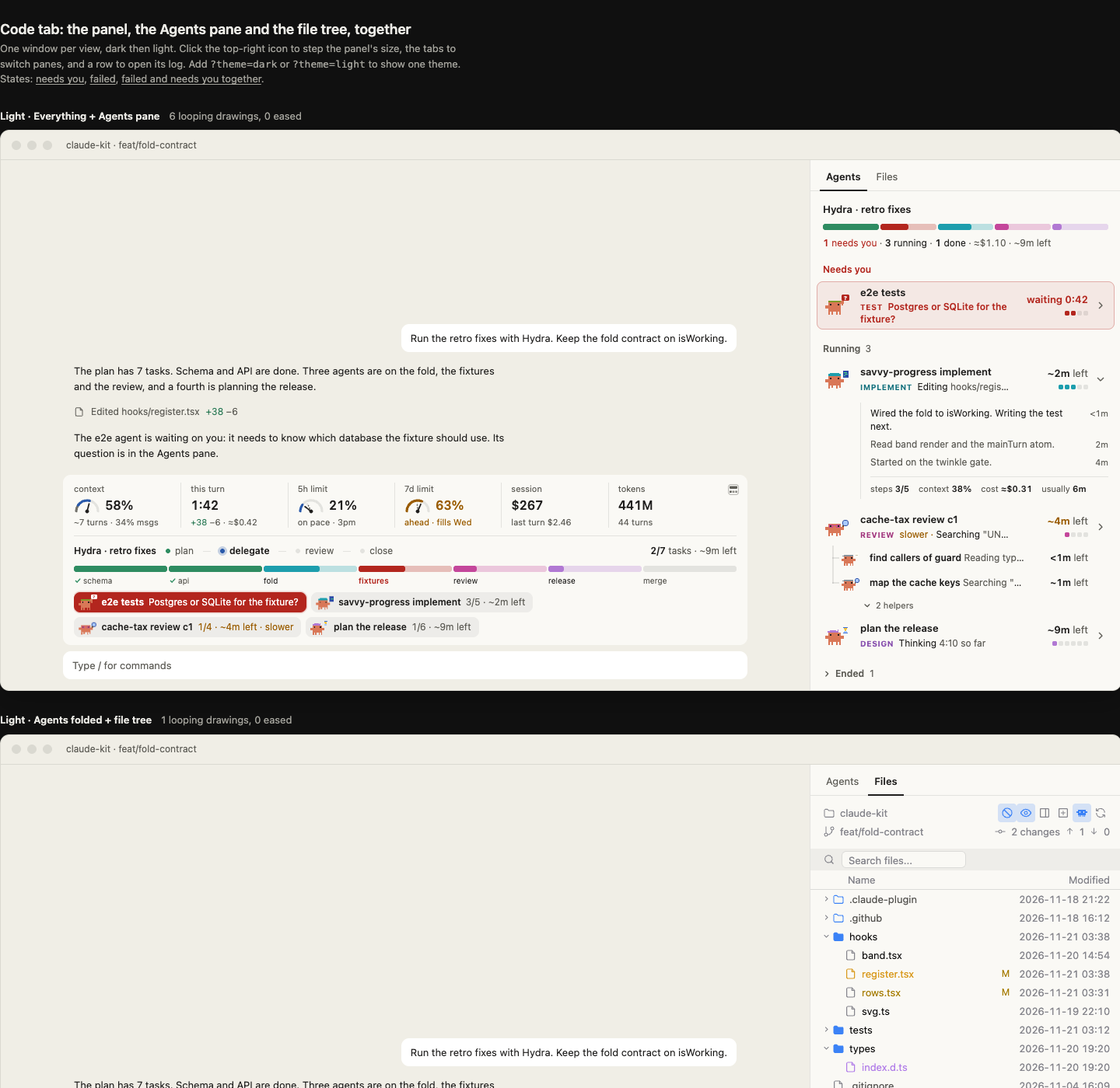
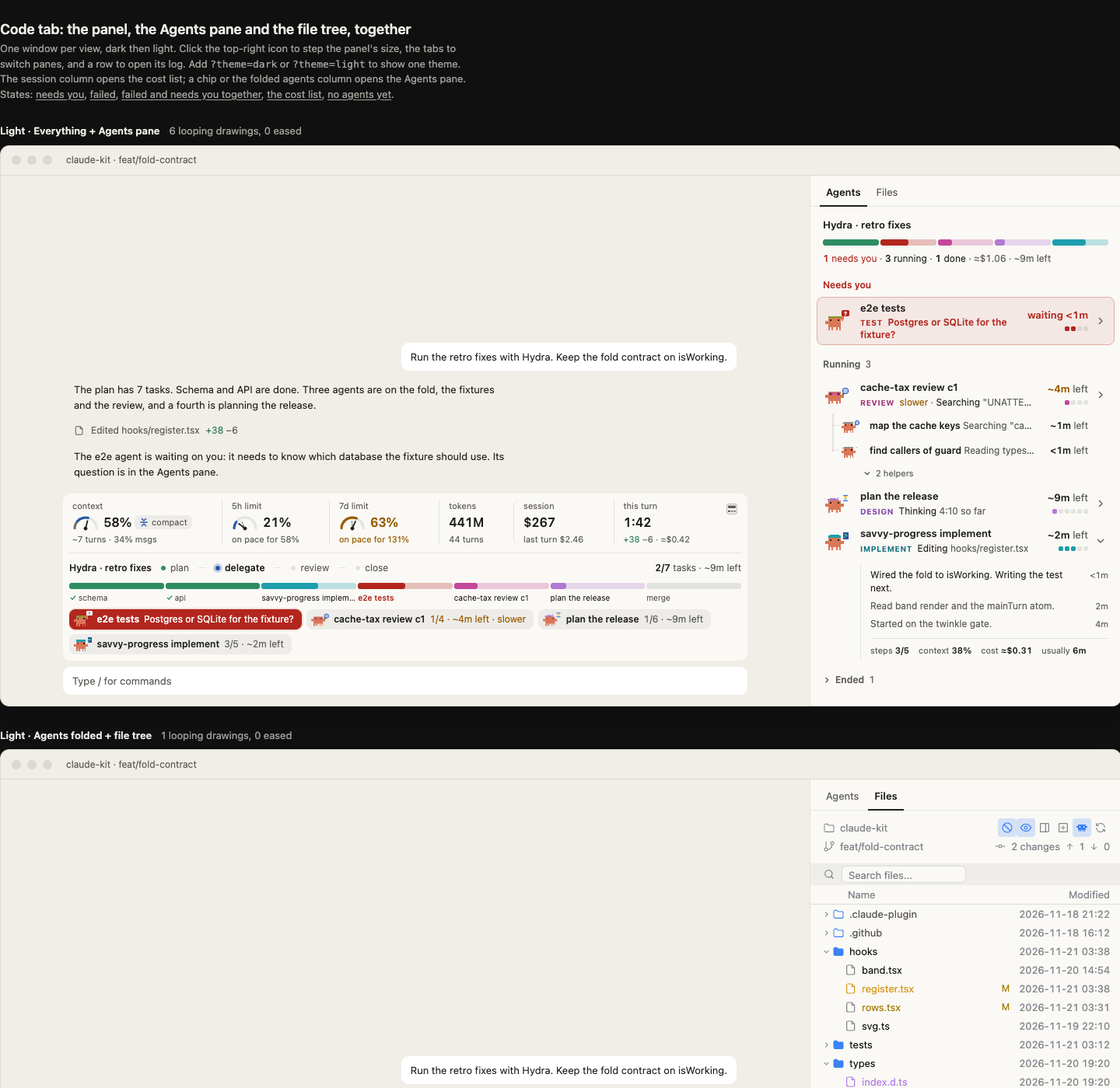
design: bring the mockup and previews in line with the build

diff --git a/design/mockups-all.html b/design/mockups-all.html
@@ -6,7 +6,8 @@
 <title>Code tab composite: panel, Agents pane, file tree</title>
 <style>
 /* Composite of the locked mockups. Drawing code is copied from panel-above-prompt.html and
-   agents-pane-roster.html; every deviation is tagged "ALIGN <id>" and listed in ALIGNMENT.md. */
+   agents-pane-roster.html; every deviation is tagged "ALIGN <id>" and listed in ALIGNMENT.md. A tag "BUILD <name>" brings
+   the drawing in line with the build: <name> is a bullet of LOCKED.md, "Build decisions", and the Playwright baselines show it. */
 :root{--page:#e9e9e8;--ink:#1f1e1d;--dim:#5f5e58;--line:#d3d2cf;color-scheme:light dark}
 @media (prefers-color-scheme:dark){:root{--page:#101010;--ink:#ecebe6;--dim:#a3a29b;--line:#37362f}}
 body{margin:0;background:var(--page);color:var(--ink);font:14px/1.5 -apple-system,BlinkMacSystemFont,system-ui,sans-serif;padding:24px 0 48px}
@@ -44,23 +45,23 @@ body{margin:0;background:var(--page);color:var(--ink);font:14px/1.5 -apple-syste
 .m{color:var(--mu)}.b{font-weight:600}.grow{flex:1}.tn{font-variant-numeric:tabular-nums}.el{white-space:nowrap;overflow:hidden;text-overflow:ellipsis}
 
 /* ---------- panel above the prompt (from panel-above-prompt.html) ---------- */
-.pn{position:relative;background:var(--p);border-radius:10px;padding:10px 14px 10px;font-size:13px;line-height:18px;margin:0 auto;box-sizing:border-box;max-width:100%} /* ALIGN R1: 12 -> 10 (host container radius); bottom pad 11 -> 10 */
+.pn{position:relative;background:var(--p);border-radius:10px;padding:8px;font-size:13px;line-height:18px;margin:0 auto;box-sizing:border-box;max-width:100%} /* ALIGN R1: 12 -> 10 (host container radius). The host's 8px padding (ALIGNMENT, "Not buildable" 1) */
 .prompt{height:36px;border-radius:10px;background:var(--pb);display:flex;align-items:center;padding:0 12px;font-size:13px;color:var(--mu);margin:8px auto 0;box-sizing:border-box;max-width:100%}
 .fold{display:grid;transition:grid-template-rows .3s cubic-bezier(.2,.8,.2,1),opacity .3s cubic-bezier(.2,.8,.2,1)}.fold>div{overflow:hidden;min-height:0} /* ALIGN M3: .36s/.24s ease-out -> .3s shared curve */
 .fold.open{grid-template-rows:1fr;opacity:1}.fold.shut{grid-template-rows:0fr;opacity:0}
 .grid{display:grid;padding-right:28px}
 .cell{padding:0 12px;border-left:1px solid var(--tr);min-width:0}
-.cell:first-child{border-left:0;padding-left:0}
+.cell:first-child{border-left:0;padding-left:4px} /* BUILD First column inset */
 .lab{font-size:11px;line-height:15px;color:var(--mu)}
 .val{display:flex;align-items:center;gap:6px;height:28px} /* ALIGN S1: gap 7 -> 6 */
 .val b{font-size:16px;font-weight:600;font-variant-numeric:tabular-nums} /* ALIGN T1: 650 -> 600 */
 .val small{font-size:12px;color:var(--mu)}
 .so{font-size:11px;line-height:15px;color:var(--mu)}
-.agentcol{cursor:pointer;border-radius:8px;outline:none}
-.agentcol:hover .lab{color:var(--fg)}
+.press{cursor:pointer;border-radius:8px;outline:none} /* a pressable column or line part */
+.press:hover .lab{color:var(--fg)}
 .line{display:flex;align-items:center;gap:12px;height:24px;white-space:nowrap;overflow:hidden;padding-right:28px} /* ALIGN S1: gap 14 -> 12 */
 .g{display:inline-flex;align-items:center;gap:6px}
-.tg{position:absolute;right:6px;top:7px;width:24px;height:24px;border:none;border-radius:6px;background:transparent;color:var(--mu);cursor:pointer;display:grid;place-items:center;padding:0} /* ALIGN F2: 22 -> 24px target */
+.tg{position:absolute;right:8px;top:8px;width:24px;height:24px;border:none;border-radius:6px;background:transparent;color:var(--mu);cursor:pointer;display:grid;place-items:center;padding:0} /* ALIGN F2: 22 -> 24px target */
 .tg:hover{background:var(--wash);color:var(--fg)}
 .tg svg rect,.tg svg circle{transition:all .3s cubic-bezier(.2,.8,.2,1)}
 .hr{height:1px;background:var(--tr);margin:10px 0 8px}
@@ -89,6 +90,11 @@ body{margin:0;background:var(--page);color:var(--ink);font:14px/1.5 -apple-syste
 .chips{display:flex;gap:6px;flex-wrap:wrap}
 .chip{display:inline-flex;align-items:center;gap:6px;height:26px;padding:0 10px 0 4px;border-radius:8px;font-size:12px;white-space:nowrap;background:var(--wash);max-width:100%}
 .chip.alert{background:var(--red);color:#fff}
+.chips .chip{cursor:pointer} /* BUILD Chips open the Agents pane */
+/* BUILD Compact chip: from 50% context, right of the value; the icon takes the dial's tone, in alarm the word is er 600 on needTint */
+.cpt{display:inline-flex;align-items:center;gap:4px;height:18px;padding:0 6px;border-radius:6px;background:var(--wash);color:var(--mu);font-size:11px;line-height:18px;margin-left:-2px;cursor:pointer;flex:none} /* 4px after the value */
+.cpt.al{background:var(--hl);color:var(--er);font-weight:600}
+.cpt svg{display:block}
 /* ALIGN N2: one needs-you beat, 1.2s stepped, for chip, pane row and the folded crab */
 .pulse{animation:pulse 1.2s steps(2) infinite}
 @keyframes pulse{50%{box-shadow:0 0 0 3px color-mix(in srgb,var(--red) 35%,transparent)}}
@@ -111,9 +117,9 @@ body{margin:0;background:var(--page);color:var(--ink);font:14px/1.5 -apple-syste
 .sec{display:flex;align-items:center;gap:6px;font-size:12px;font-weight:600;color:var(--mu);margin:16px 0 6px;user-select:none} /* ALIGN S1: 18 -> 16 */
 .sec.need{color:var(--er)}
 .sec button{all:unset;display:inline-flex;align-items:center;gap:6px;cursor:pointer;border-radius:6px}
-.row{display:grid;grid-template-columns:38px minmax(0,1fr) 88px 16px;align-items:center;column-gap:10px;height:48px;border-radius:8px;padding:0 8px;margin:0 -8px;cursor:pointer;position:relative;transition:background .15s cubic-bezier(.2,.8,.2,1);outline:none} /* ALIGN R1: 10 -> 8, same as chips */
+.row{display:grid;grid-template-columns:38px minmax(0,1fr) var(--rd,88px) 16px;align-items:center;column-gap:10px;height:48px;border-radius:8px;padding:0 8px;margin:0 -8px;cursor:pointer;position:relative;transition:background .15s cubic-bezier(.2,.8,.2,1);outline:none} /* ALIGN R1: 10 -> 8, same as chips. BUILD Narrow pane: --rd is the one reading edge (widest reading + 6, 88 at most) */
 .row:hover{background:var(--wash)}
-.row.need{background:var(--hl);height:62px}
+.row.need{background:var(--hl);height:62px;grid-template-columns:38px minmax(0,1fr) 88px 16px} /* an alert row sizes its own column */
 .role{font-size:10px;font-weight:700;letter-spacing:.06em;margin-right:3px} /* ALIGN T1: 10.5 -> 10 */
 .ask{display:-webkit-box;-webkit-line-clamp:2;-webkit-box-orient:vertical;overflow:hidden;line-height:16px}
 .sub{font-size:12px;margin-top:2px}
@@ -129,9 +135,7 @@ body{margin:0;background:var(--page);color:var(--ink);font:14px/1.5 -apple-syste
 /* ALIGN N2/M1: was an eased 3s ring growing 6px outside the row. Stepped, inset (a Client clips its overflow), same 1.2s beat as the chip. */
 .ring{position:absolute;inset:0 -8px;border-radius:8px;animation:ring 1.2s steps(2) infinite;pointer-events:none}
 @keyframes ring{50%{box-shadow:inset 0 0 0 2px color-mix(in srgb,var(--er) 60%,transparent)}}
-.drawer{display:grid;grid-template-rows:0fr;transition:grid-template-rows .3s cubic-bezier(.2,.8,.2,1)}
-.drawer>div{overflow:hidden}
-.drawer.on{grid-template-rows:1fr}
+.drawer{display:none}.drawer.on{display:block} /* BUILD Log drawer: it opens still */
 .log{margin:6px 0 12px 48px;padding:2px 0 2px 12px;border-left:1.5px solid var(--tr)}
 .li{display:grid;grid-template-columns:minmax(0,1fr) 38px;column-gap:10px;font-size:12px;line-height:17px;padding:3px 0}
 .li .ago{text-align:right;font-size:11px;color:var(--mu);font-variant-numeric:tabular-nums}
@@ -146,9 +150,11 @@ body{margin:0;background:var(--page);color:var(--ink);font:14px/1.5 -apple-syste
 .kids>div{overflow:hidden}
 .tree{position:relative;padding-left:22px}
 .tree:before{content:"";position:absolute;left:12px;top:-4px;bottom:15px;width:1.5px;background:var(--tr)}
-.kid{grid-template-columns:28px minmax(0,1fr) 72px 16px;height:32px;cursor:default}
+.kid{grid-template-columns:28px minmax(0,1fr) var(--rd,88px) 16px;height:32px;cursor:default} /* BUILD Narrow pane: helpers share the rows' reading edge */
 .kid:before{content:"";position:absolute;left:-2px;top:15.25px;width:9px;height:1.5px;background:var(--tr)}
 .kid .ttl{font-size:12px}
+.kid .ttl.two{display:flex;flex-wrap:wrap;column-gap:4px;line-height:14px} /* BUILD Cuts keep meaning: a failed helper's reason that will not fit goes to line 2 */
+.kid .ttl.two>*{white-space:nowrap;overflow:hidden;text-overflow:ellipsis;max-width:100%}
 .kidtog{all:unset;display:inline-flex;align-items:center;gap:6px;font-size:11px;color:var(--mu);margin:2px 0 4px 48px;cursor:pointer;border-radius:6px;padding:2px 4px}
 .kidtog:hover{color:var(--fg)}
 .kidtog svg{transition:transform .3s cubic-bezier(.2,.8,.2,1)}
@@ -168,6 +174,17 @@ body{margin:0;background:var(--page);color:var(--ink);font:14px/1.5 -apple-syste
 .li.bad>span:first-child{color:var(--er);font-weight:600}
 .errl{display:block;margin:4px 0 2px;padding:4px 8px;border-radius:6px;background:var(--wash);color:var(--fg);font:400 11px/15px ui-monospace,SFMono-Regular,Menlo,monospace;overflow-wrap:anywhere}
 .end .no{color:var(--er);display:inline-flex;align-items:center;gap:4px}
+/* BUILD Session cost board / Cost list: a back row, the total, then 'Last N turns', amounts right-aligned at the reading edge */
+.back{all:unset;display:flex;align-items:center;gap:6px;height:28px;font-size:12px;color:var(--mu);cursor:pointer;border-radius:6px}
+.back svg{transform:rotate(180deg)}
+.costs .t{font-size:13px;font-weight:600;margin-top:4px}
+.costs .tot{font-size:12px;margin:2px 0 0}
+.costs .sec{margin:14px 0 4px}
+.cl{display:grid;grid-template-columns:minmax(0,1fr) auto;padding-right:34px;font-size:12px;line-height:20px}
+.cl span:nth-child(odd){color:var(--mu)}
+/* BUILD Empty pane: the title in fg, the hint muted */
+.empty{display:flex;flex-direction:column;align-items:center;padding:24px 0;font-size:13px}
+.empty .m{font-size:12px}
 /* ALIGN F12: specimen sheet for the failed chip's timer and the A/B row. A legend, not a surface of the app. */
 .spec{width:1440px;margin:0 auto;box-sizing:border-box;border-radius:12px;border:1px solid var(--tr);background:var(--g);color:var(--fg);padding:12px;display:grid;grid-template-columns:repeat(2,minmax(0,1fr));gap:12px;font:13px/18px -apple-system,BlinkMacSystemFont,system-ui,sans-serif}
 .spec ::selection{background:color-mix(in srgb,var(--ac) 35%,transparent)}
@@ -203,7 +220,7 @@ body{margin:0;background:var(--page);color:var(--ink);font:14px/1.5 -apple-syste
 <body>
 <div class="doc">
 <h1>Code tab: the panel, the Agents pane and the file tree, together</h1>
-<p>One window per view, dark then light. Click the top-right icon to step the panel's size, the tabs to switch panes, and a row to open its log. Add <code>?theme=dark</code> or <code>?theme=light</code> to show one theme. States: <a href="?">needs you</a>, <a href="?state=failed">failed</a>, <a href="?state=both">failed and needs you together</a>.</p>
+<p>One window per view, dark then light. Click the top-right icon to step the panel's size, the tabs to switch panes, and a row to open its log. Add <code>?theme=dark</code> or <code>?theme=light</code> to show one theme. The session column opens the cost list; a chip or the folded agents column opens the Agents pane. States: <a href="?">needs you</a>, <a href="?state=failed">failed</a>, <a href="?state=both">failed and needs you together</a>, <a href="?state=costs">the cost list</a>, <a href="?state=empty">no agents yet</a>.</p>
 </div>
 <div id="root"></div>
 <script>
@@ -222,7 +239,7 @@ const TH={
 const CL='#D97757',INK='#1F1E1D';
 /* ALIGN I1: one icon set, 12-unit grid, 1.6 stroke, drawn at 12px or 10px (was 1.6 / 1.7 / 2.0 at 12 / 11 / 10 / 8px) */
 const ic=(d,s,cls)=>`<svg ${cls?`class="${cls}"`:`width="${s}" height="${s}"`} viewBox="0 0 12 12" aria-hidden="true"><path d="${d}" fill="none" stroke="currentColor" stroke-width="1.6" stroke-linecap="round" stroke-linejoin="round"/></svg>`;
-const ICON={chev:ic('M4.5 2.5 8 6l-3.5 3.5',12,'chev'),small:ic('M4.5 2.5 8 6l-3.5 3.5',10),check:ic('M2.5 6.3 5 8.8l4.5-5.3',10),cross:ic('M3 3l6 6M9 3 3 9',10)}; /* ALIGN F3: cross, same grid and stroke as the check */
+const ICON={chev:ic('M4.5 2.5 8 6l-3.5 3.5',12,'chev'),small:ic('M4.5 2.5 8 6l-3.5 3.5',10),check:ic('M2.5 6.3 5 8.8l4.5-5.3',10),cross:ic('M3 3l6 6M9 3 3 9',10),squeeze:ic('M3.5 1.5 6 4l2.5-2.5M3.5 10.5 6 8l2.5 2.5M2 6h8',12)}; /* ALIGN F3: cross, same grid and stroke as the check. BUILD Compact chip: squeeze */
 
 /* ALIGN C2: ONE crab for chips, pane rows and the folded column. The pane's drawing (full props, done flag)
    plus the panel's failed eyes. Sizes are S .75 / M 1 / L 1.5 only (were .7 .75 .8 .9 1.1 1.6). */
@@ -245,34 +262,41 @@ function icon(mode,dot,c){const line=mode==='line',full=mode==='full';
  return `<svg width="14" height="14" viewBox="0 0 14 14" aria-hidden="true"><rect x=".6" y=".6" width="12.8" height="12.8" rx="3" fill="none" stroke="currentColor" stroke-opacity=".45"/>${top}${row}${dot?`<circle cx="11.8" cy="2.2" r="2" fill="${c.er}"/>`:''}</svg>`} /* ALIGN K1: dot was a hard-coded #ff6a52 */
 
 /* ---------- ALIGN D1: ONE dataset feeds the panel and the pane (the two mockups disagreed on agents, names, counts and time left) ---------- */
+/* BUILD: agents in the build's order: running newest first (rev, e2e, pln, imp; helpers k2, k1), as in plugin/tests/fixtures/states.ts */
 const seed=()=>[
- {id:'e2e',t:'e2e tests',role:'test',m:'Haiku 5.5',prop:'wait',q:'Postgres or SQLite for the fixture?',wait:'0:42',n:2,N:4,ctx:62,cost:'0.07',us:'4m',task:4,log:[['Asked: Postgres or SQLite for the fixture?','<1m'],['Seeded the fixture data.','2m'],['Wrote the login flow test.','3m']]},
- {id:'imp',t:'savvy-progress implement',role:'implement',m:'Sonnet 5.5',prop:'write',act:'Editing',tgt:'hooks/register.tsx',eta:2,n:3,N:5,ctx:38,cost:'0.31',us:'6m',walk:1,task:3,log:[['Wired the fold to isWorking. Writing the test next.','<1m'],['Read band render and the mainTurn atom.','2m'],['Started on the twinkle gate.','4m']]},
- {id:'rev',t:'cache-tax review c1',role:'review',m:'Opus 5.5',prop:'search',act:'Searching',tgt:'"UNATTENDED" in hooks/',eta:4,slow:1,n:1,N:4,ctx:21,cost:'0.18',us:'7m',walk:1,task:5,log:[['Searching for UNATTENDED across hooks/.','1m'],['Opened the cache-tax diff.','3m']],kids:[
-  {id:'k1',t:'find callers of guard',role:'explore',prop:'read',act:'Reading',tgt:'types/index.d.ts',eta:0,n:2,N:3,walk:1},
-  {id:'k2',t:'map the cache keys',role:'explore',prop:'search',act:'Searching',tgt:'"cacheKey" in src/',eta:1,n:1,N:3}]},
- {id:'pln',t:'plan the release',role:'design',m:'Fable 5.2',prop:'think',act:'Thinking',tgt:'4:10 so far',eta:9,n:1,N:6,ctx:30,cost:'0.44',us:'12m',task:6,log:[['Drafting the release order.','30s']]}]; /* ALIGN W2: "4m 10s so far" -> "4:10 so far" (a running clock is m:ss) */
-const A=seed(),ENDED=[{t:'docs pass',role:'explore',took:'1:05'}];
+ {id:'rev',t:'cache-tax review c1',role:'review',m:'Opus 5.5',prop:'search',act:'Searching',tgt:'"UNATTENDED" in hooks/',eta:4,slow:1,n:1,N:4,ctx:21,cost:'0.18',us:'7m',task:5,log:[['Searching for UNATTENDED across hooks/.','1m'],['Opened the cache-tax diff.','3m']],kids:[
+  {id:'k2',t:'map the cache keys',role:'explore',prop:'search',act:'Searching',tgt:'"cacheKey" in src/',eta:1,n:1,N:3,cost:'0.01'},
+  {id:'k1',t:'find callers of guard',role:'explore',prop:'read',act:'Reading',tgt:'types/index.d.ts',eta:0,n:2,N:3,cost:'0.02'}]},
+ {id:'e2e',t:'e2e tests',role:'test',m:'Haiku 5.5',prop:'wait',q:'Postgres or SQLite for the fixture?',wait:'<1m',n:2,N:4,ctx:62,cost:'0.07',us:'4m',task:4,log:[['Asked: Postgres or SQLite for the fixture?','<1m'],['Seeded the fixture data.','2m'],['Wrote the login flow test.','3m']]}, /* BUILD Ages, everywhere: whole minutes */
+ {id:'pln',t:'plan the release',role:'design',m:'Fable 5.2',prop:'think',act:'Thinking',tgt:'4:10 so far',eta:9,n:1,N:6,ctx:30,cost:'0.44',us:'12m',task:6,log:[['Drafting the release order.','<1m']]}, /* ALIGN W2: "4m 10s so far" -> "4:10 so far" (a running clock is m:ss) */
+ {id:'imp',t:'savvy-progress implement',role:'implement',m:'Sonnet 5.5',prop:'write',act:'Editing',tgt:'hooks/register.tsx',eta:2,n:3,N:5,ctx:38,cost:'0.31',us:'6m',task:3,log:[['Wired the fold to isWorking. Writing the test next.','<1m'],['Read band render and the mainTurn atom.','2m'],['Started on the twinkle gate.','4m']]}];
+const A=seed(),ENDED=[{t:'docs pass',role:'explore',took:'1:05',cost:'0.03'}],AG=id=>A.find(a=>a.id===id);
 /* ALIGN F7: the failed scenario (?state=failed, or ?state=both to keep a needs-you beside it). Two kinds, as in AgentRun:
    ended failed = status 'failed' (prop 'fail', held until the next prompt); struggling = still running with failedAttempts >= 3 (tries). */
 const STATE=new URLSearchParams(location.search).get('state')||'',FAILED=STATE==='failed'||STATE==='both';
 if(FAILED){
- Object.assign(A[0],{prop:'fail',q:'',took:'2:10',tries:3,why:'Could not reach Postgres on :5432',err:'connect ECONNREFUSED 127.0.0.1:5432',log:[['Failed at step 3 of 4: run the login flow test','<1m'],['Try 3 failed: still refused.','<1m'],['Try 2 failed: restarted the container.','1m'],['Try 1 failed: connection refused.','1m'],['Seeded the fixture data.','2m']]});
- Object.assign(A[2],{tries:3,slow:0,act:'Retrying',tgt:'the diff against main',log:[['Try 3 failed: 2 hunks still rejected.','20s'],['Helper "map the cache keys" failed after 0:48: no "cacheKey" in src/.','50s'],['Try 2 failed: rebased, same hunks.','1m'],['Try 1 failed: the diff does not apply.','2m'],['Opened the cache-tax diff.','3m']]});
- Object.assign(A[2].kids[1],{prop:'fail',walk:0,why:'no "cacheKey" in src/'});
- if(STATE==='both')Object.assign(A[3],{prop:'wait',q:'Ship the release notes in this PR, or after it?',wait:'0:18'})}
+ Object.assign(AG('e2e'),{prop:'fail',q:'',took:'2:10',tries:3,why:'Could not reach Postgres on :5432',err:'connect ECONNREFUSED 127.0.0.1:5432',log:[['Failed at step 3 of 4: run the login flow test','<1m'],['Try 3 failed: still refused.','<1m'],['Try 2 failed: restarted the container.','1m'],['Try 1 failed: connection refused.','1m'],['Seeded the fixture data.','2m']]});
+ Object.assign(AG('rev'),{tries:3,act:'Retrying',tgt:'the diff against main',log:[['Try 3 failed: 2 hunks still rejected.','<1m'],['Helper "map the cache keys" failed after 0:48: no "cacheKey" in src/','<1m'],['Try 2 failed: rebased, same hunks.','1m'],['Try 1 failed: the diff does not apply.','2m'],['Opened the cache-tax diff.','3m']]});
+ Object.assign(AG('rev').kids[0],{prop:'fail',why:'no "cacheKey" in src/'});
+ if(STATE==='both')Object.assign(AG('pln'),{prop:'wait',q:'Ship the release notes in this PR, or after it?',wait:'<1m'})}
+/* BUILD Empty pane (?state=empty): no agents and no plan */
+const EMPTY=STATE==='empty';if(EMPTY){A.length=0;ENDED.length=0}
 const hard=a=>a.tries>=3&&a.prop!=='fail'; /* struggling: live, may recover */
 /* ALIGN M2: walkers are capped window-wide and are the same agents in chips and rows:
-   2 while someone needs you (the needs-you beat takes the third slot), else 3. Helpers walk only if a slot is left. */
-{let cap=A.some(a=>a.prop==='wait'||a.prop==='fail')?2:3; /* ALIGN F8: the armed failed pulse takes the same one slot as the needs-you beat (they share it when both are up) */[...A,...A.flatMap(a=>a.kids||[])].forEach(a=>{a.walk=a.walk&&cap-->0?1:0})}
-const TASKS=['schema','api','fold','fixtures','review','release','merge'],PH=['plan','delegate','review','close'],DONE=2;
-const ST={busy:1,hydra:1,ctx:58,h5:21,d7:63,ahead7:1,turns:44,tests:1}; /* the panel's "Hydra, needs you" state */
+   2 while someone needs you (the needs-you beat takes the third slot), else 3. Helpers walk only if a slot is left.
+   BUILD: the newest running agents walk, then their helpers (loops.ts, pickLoops). */
+{let cap=A.some(a=>a.prop==='wait'||a.prop==='fail')?2:3; /* ALIGN F8: the armed failed pulse takes the same one slot as the needs-you beat (they share it when both are up) */const live=a=>a.prop!=='wait'&&a.prop!=='fail';[...A,...A.flatMap(a=>a.kids||[])].forEach(a=>{a.walk=live(a)&&cap-->0?1:0})}
+/* BUILD: the plan's task titles are the run descriptions they match, as savvy-progress's contract asks. DONE: BUILD Plan count, the session's accepted count */
+const TASKS=['schema','api','savvy-progress implement','e2e tests','cache-tax review c1','plan the release','merge'],PH=['plan','delegate','review','close'],DONE=2;
+const ST={busy:1,hydra:!EMPTY,ctx:58,msgs:34,h5:21,p5:36,d7:63,p7:48,turns:44,tests:1}; /* the panel's "Hydra, needs you" state; p5/p7: the on-pace points */
+/* BUILD Session cost board: the last 20 of 44 turns, newest last (the costs fixture) */
+const TURNS=[...Array.from({length:17},(_,i)=>+(0.2+i*0.03).toFixed(2)),0.85,1.1,2.46];
 const NEXT={full:'gauges',gauges:'line',line:'full'},LBL={full:'Panel: everything. Fold the agents',gauges:'Panel: agents folded. Show one line',line:'Panel: one line. Show everything'};
 const tier=(c,p)=>p>=90?c.er:p>=70?c.wa:c.ac;
 const alertOf=a=>a.prop==='wait'||a.prop==='fail';
 /* ALIGN W1: one wording for time left: "~Nm left", "<1m left". Never a bare "~Nm". */
 const etaTxt=a=>a.eta===0?'<1m':`~${a.eta}m`;
-const LEFT=`~${Math.max(1,...A.filter(a=>!alertOf(a)).map(a=>a.eta||1))}m left`; /* one number, used by the plan line, the plan column and the pane summary */
+const LEFT=`~${Math.max(1,...A.filter(a=>!alertOf(a)).map(a=>a.eta||1))}m left`,COST=[...A,...A.flatMap(a=>a.kids||[]),...ENDED].reduce((s,a)=>s+ +a.cost,0); /* one number, used by the plan line, the plan column and the pane summary */
 /* ALIGN K1: the deep red (#b3261e) is a FILL under white text only. A bare needs-you mark uses er (2.4:1 -> 6.1:1 on the dark panel). */
 /* ALIGN K3: green as TEXT uses okt (light #2e8c61 was 3.96:1; #237550 is 5.4:1). Fills keep ok. */
 const stateCol=(a,c)=>alertOf(a)?c.er:c.R[a.role];
@@ -281,35 +305,44 @@ function taskState(i,L){if(i<DONE)return{k:'d'};const a=L.find(x=>x.task===i+1);
 const seg=(t,c)=>t.k==='d'?'<span class="d"></span>':t.a&&t.a.prop==='fail'?'<span class="x"></span>':t.a?`<span class="r" style="--c:${stateCol(t.a,c)};--f:${Math.max(8,Math.round(t.a.n/t.a.N*100))}%"><i></i></span>`:'<span></span>';
 const mini=(c,L,wd)=>`<span class="mb" style="width:${wd}px" role="img" aria-label="plan, ${DONE} of ${TASKS.length} tasks done">${TASKS.map((_,i)=>{const t=taskState(i,L);return `<span style="${t.k==='d'?`background:${c.ok}`:t.a?`background:${stateCol(t.a,c)}`:''}"></span>`}).join('')}</span>`;
 /* ALIGN F4: one drawing of the agents crab for the folded column, the one-line size and the specimen. armed = the failed pulse timer is live. */
-const mascot=(F,c,s,n,armed,mr)=>`<span style="position:relative;display:inline-block${mr?';margin-right:6px':''}" class="${F.a.prop==='wait'?'hop':F.a.prop==='fail'&&armed?'sway':''}">${crab(F.a.role,F.a.prop,!F.alert,c,s)}<span class="badge" style="background:${F.alert?c.red:c.fg};color:${F.alert?'#fff':c.p}">${n}</span></span>`;
+const mascot=(F,c,s,n,armed,mr)=>`<span style="position:relative;display:inline-block${mr?';margin-right:6px':''}" class="${F.a.prop==='wait'?'hop':F.a.prop==='fail'&&armed?'sway':''}">${crab(F.a.role,F.a.prop,!F.alert,c,s)}${n>1?`<span class="badge" style="background:${F.alert?c.red:c.fg};color:${F.alert?'#fff':c.p}">${n}</span>`:''}</span>`; /* BUILD Count badge: only for 2 or more agents */
 const faceStyle=(F,c)=>F.alert?`color:${c.er};font-weight:600`:F.warn?`color:${c.wa}`:'';
 /* ALIGN F10: the failed chip says "failed" and the same reason sentence as the pane row; it pulses only while armed
    (turn running, or idle under 10 min). The struggling chip stays a normal chip with amber words. */
-const chip=(a,c,armed)=>{const al=alertOf(a),fail=a.prop==='fail',amber=hard(a)||a.slow;return `<span class="chip${al?' alert':''}${a.prop==='wait'||(fail&&armed)?' pulse':''}">${crab(a.role,a.prop,a.walk&&!al,c,S,al)}<b class="el" style="max-width:180px">${a.t}</b>${fail?`<span class="el" style="max-width:300px">failed · ${a.why}</span>`:al?`<span class="el">${a.q}</span>`:`<span class="tn" style="color:${amber?c.wa:c.mu}">${a.n}/${a.N} · ${etaTxt(a)} left${hard(a)?` · ${a.tries} failed tries`:a.slow?' · slower':''}</span>`}</span>`};
+const chip=(a,c,armed)=>{const al=alertOf(a),fail=a.prop==='fail',amber=hard(a)||a.slow;return `<span class="chip${al?' alert':''}${a.prop==='wait'||(fail&&armed)?' pulse':''}" role="button" tabindex="0" aria-label="${a.t}: open its row" data-act="open" data-id="${a.id}">${crab(a.role,a.prop,a.walk&&!al,c,S,al)}<b class="el" style="max-width:180px">${a.t}</b>${fail?`<span class="el" style="max-width:300px">failed · ${a.why}</span>`:al?`<span class="el">${a.q}</span>`:`<span class="tn" style="color:${amber?c.wa:c.mu}">${a.n}/${a.N} · ${etaTxt(a)} left${hard(a)?` · ${a.tries} failed tries`:a.slow?' · slower':''}</span>`}</span>`};
 const rank=a=>a.prop==='wait'?0:a.prop==='fail'?1:2;
-function columns(c,s,L,mode){const C=[],alarm=s.ctx>=90;
- C.push({k:'context',pr:100,lab:'context',d:dial(c,s.ctx,tier(c,s.ctx),{base:18,label:'context'}),val:`<b style="${alarm?`color:${c.er}`:''}">${s.ctx}%</b>`,so:alarm?`<span style="color:${c.er}">auto-compacts at 97%</span>`:s.turns<3?'learning your pace':`~${s.ctx>50?7:11} turns · 34% msgs`});
- if(s.busy)C.push({k:'turn',pr:95,lab:'this turn',val:'<b>1:42</b>',so:`<span style="color:${c.okt}">+38</span> −6 · ≈$0.42`});
- const h5hot=s.h5>=50||s.ahead5,d7hot=s.d7>=50||s.ahead7,h5c=s.h5>=80||s.ahead5?c.wa:c.ac,d7c=s.ahead7?c.wa:c.ac;
- C.push({k:'5h',hot:h5hot,pr:h5hot?96:40,lab:'5h limit',d:dial(c,s.h5,h5c,{ghost:Math.min(s.h5+15,62),label:'5 hour limit'}),val:`<b style="${h5c===c.wa?`color:${c.wa}`:''}">${s.h5}%</b>`,so:s.ahead5?`<span style="color:${c.wa}">full in ~1h 35m</span>`:'on pace · 3pm',pct:s.h5,col:h5c,gh:Math.min(s.h5+15,62)});
- C.push({k:'7d',hot:d7hot,pr:d7hot?90:35,lab:'7d limit',d:dial(c,s.d7,d7c,{ghost:48,label:'7 day limit'}),val:`<b style="${s.ahead7?`color:${c.wa}`:''}">${s.d7}%</b>`,so:s.ahead7?`<span style="color:${c.wa}">ahead · fills Wed</span>`:'on pace · Fri',pct:s.d7,col:d7c,gh:48});
- C.push({k:'session',pr:80,lab:'session',val:'<b>$267</b>',so:s.turns?'last turn $2.46':'no turns yet'});
- if(s.turns>=3){C.push({k:'tokens',pr:30,lab:'tokens',val:'<b>441M</b>',so:`${s.turns} turns`});C.push({k:'agent',pr:28,lab:'agent time',val:'<b>10h 50m</b>',so:'avg 14m per turn'})} /* ALIGN I2: the "⌀" glyph -> the word */
- if(s.tests)C.push({k:'tests',pr:s.busy?20:45,lab:'tests',val:`<b style="color:${c.okt}">179</b><small>passed</small>`,so:'3m ago'});
- if(mode!=='full'&&s.hydra)C.push({k:'plan',pr:97,lab:`plan · ${PH[1]}`,d:mini(c,L,58),val:`<b>${DONE}/${TASKS.length}</b>`,so:`retro fixes · ${LEFT}`});
- /* ALIGN W3: "N running" counted the waiting agent as running; the pane does not. The folded column now reads "N agents". Crab .9 -> M. */
- if(mode!=='full'&&L.length){const F=face(L);C.push({k:'agents',pr:99,click:1,lab:'agents',d:mascot(F,c,M,L.length,1,1),val:`<b>${L.length}</b><small>agents</small>`,so:`<span style="${faceStyle(F,c)}">${F.txt}</span>`})}
+/* BUILD Stable column order, the build's priorities (panel/columns.ts): the core five rank by position, so a narrow row drops
+   them from the right; the folded agents and plan rank just under context; the extras fill what is left. */
+const pace=(p,g)=>{const x=Math.round(p/g*100);return `on pace for ${x>200?'200%+':`${x}%`}`}; /* BUILD: the build's pace words */
+function columns(c,s,L,mode){const C=[],alarm=s.ctx>=90,ctc=tier(c,s.ctx);
+ const cpt=s.ctx>=50?`<span class="cpt${alarm?' al':''}" role="button" tabindex="0" aria-label="${alarm?'Compact context now':'Compact context: runs /compact'}" data-act="compact"><span style="color:${ctc};display:inline-flex">${ICON.squeeze}</span>compact</span>`:''; /* BUILD Compact chip */
+ C.push({k:'context',pr:100,lab:'context',d:dial(c,s.ctx,ctc,{base:s.ctx-s.msgs,label:'context'}),val:`<b style="${alarm?`color:${c.er}`:''}">${s.ctx}%</b>${cpt}`,so:alarm?`<span style="color:${c.er}">auto-compacts at 97%</span>`:s.turns<3?'learning your pace':`~${s.ctx>50?7:11} turns · ${s.msgs}% msgs`});
+ if(s.busy)C.push({k:'turn',pr:50,lab:'this turn',val:'<b>1:42</b>',so:`<span style="color:${c.okt}">+38</span> −6 · ≈$0.42`});
+ const h5a=s.h5>s.p5,d7a=s.d7>s.p7,h5hot=s.h5>=50||h5a,d7hot=s.d7>=50||d7a,h5c=s.h5>=80||h5a?c.wa:c.ac,d7c=s.d7>=80||d7a?c.wa:c.ac;
+ C.push({k:'5h',hot:h5hot,pr:96,lab:'5h limit',d:dial(c,s.h5,h5c,{ghost:s.p5,label:'5 hour limit'}),val:`<b style="${h5c===c.wa?`color:${c.wa}`:''}">${s.h5}%</b>`,so:`<span style="${h5a?`color:${c.wa}`:''}">${pace(s.h5,s.p5)}</span>`,pct:s.h5,col:h5c,gh:s.p5});
+ C.push({k:'7d',hot:d7hot,pr:95,lab:'7d limit',d:dial(c,s.d7,d7c,{ghost:s.p7,label:'7 day limit'}),val:`<b style="${d7c===c.wa?`color:${c.wa}`:''}">${s.d7}%</b>`,so:`<span style="${d7a?`color:${c.wa}`:''}">${pace(s.d7,s.p7)}</span>`,pct:s.d7,col:d7c,gh:s.p7});
+ /* BUILD Session column opens the cost list */
+ C.push({k:'session',pr:93,act:'costs',aria:'Session cost: open the cost list',lab:'session',val:'<b>$267</b>',so:s.turns?'last turn $2.46':'no turns yet'});
+ if(s.turns>=3){C.push({k:'tokens',pr:94,lab:'tokens',val:'<b>441M</b>',so:`${s.turns} turns`});C.push({k:'agent',pr:40,lab:'agent time',val:'<b>10h 50m</b>',so:'avg 14m per turn'})} /* ALIGN I2: the "⌀" glyph -> the word */
+ if(s.tests)C.push({k:'tests',pr:45,lab:'tests',val:`<b style="color:${c.okt}">179</b><small>passed</small>`,so:'3m ago'});
+ if(mode!=='full'&&s.hydra)C.push({k:'plan',pr:97,lab:`plan · ${PH[1]}`,d:mini(c,L,58),val:`<b>${DONE}/${TASKS.length}</b>`,so:`Hydra · retro fixes · ${LEFT}`});
+ /* ALIGN W3: "N running" counted the waiting agent as running; the pane does not. The folded column now reads "N agents". Crab .9 -> M.
+    BUILD One folded agent: its name in the value slot and only its state under it. BUILD Alert line keeps its words: the name is cut, never " needs you". */
+ if(mode!=='full'&&L.length){const F=face(L),one=L.length===1&&F.a===L[0],st=F.alert?(F.a.prop==='wait'?'needs you':'failed'):F.warn?`${F.a.tries} failed tries`:`${etaTxt(F.a)} left`;
+  const say=F.alert&&!one?`<span class="el" style="min-width:0">${F.a.t}</span><span style="flex:none;white-space:pre">${F.txt.slice(F.a.t.length)}</span>`:one?st:F.txt;
+  C.push({k:'agents',pr:99,act:'open',aria:'Agents: show them all',lab:'agents',d:mascot(F,c,M,L.length,1,1),val:one?`<b class="el" style="font-size:14px">${L[0].t}</b>`:`<b>${L.length}</b><small>agents</small>`,so:`<span style="display:flex;${faceStyle(F,c)}">${say}</span>`})}
  return C}
-const ORDER=['context','turn','5h','7d','plan','session','tests','tokens','agent','agents'];
+const ORDER=['context','5h','7d','tokens','session','turn','tests','agent','reuse','callers','plan','agents'];
 function panel(c,mode,W){const s=ST,L=A;
  const all=columns(c,s,L,mode);const max=Math.max(2,Math.min(6,Math.floor((W-28-26)/128)));
  const keep=[...all].sort((a,b)=>b.pr-a.pr).slice(0,max).sort((a,b)=>ORDER.indexOf(a.k)-ORDER.indexOf(b.k));
- const grid=`<div class="grid" style="grid-template-columns:repeat(${keep.length},minmax(0,1fr))">${keep.map(x=>`<div class="cell${x.click?' agentcol':''}"${x.click?' role="button" tabindex="0" aria-label="Agents: show them all" data-act="open"':''}><div class="lab">${x.lab}</div><div class="val">${x.d||''}${x.val}</div><div class="so el">${x.so}</div></div>`).join('')}</div>`;
+ /* BUILD Column widths follow need: auto tracks, each its content's width, the rest shared */
+ const grid=`<div class="grid" style="grid-template-columns:repeat(${keep.length},auto)">${keep.map(x=>`<div class="cell${x.act?' press':''}"${x.act?` role="button" tabindex="0" aria-label="${x.aria}" data-act="${x.act}"`:''}><div class="lab">${x.lab}</div><div class="val">${x.d||''}${x.val}</div><div class="so el">${x.so}</div></div>`).join('')}</div>`;
  const bad=L.filter(a=>a.task&&a.prop==='fail').length,live=L.filter(a=>a.task).length-bad;
  const plan=s.hydra?`<div class="hr"></div><div class="plan${W<620?' narrow':''}"><b class="el" style="min-width:0">${W<520?'Hydra':'Hydra · retro fixes'}</b>${PH.map((p,i)=>`${i?'<span class="sep"></span>':''}<span class="ph ${i<1?'done':i===1?'now':'next'}" title="${p}"><i></i><span>${p}</span></span>`).join('')}<span class="grow"></span><span class="tn"><b>${DONE}/${TASKS.length}</b><span class="m"> tasks · ${LEFT}</span></span></div><div class="tbar" role="img" aria-label="tasks: ${DONE} done, ${bad?`${bad} failed, `:''}${live} in progress, ${TASKS.length-DONE-live-bad} not started">${TASKS.map((_,i)=>seg(taskState(i,L),c)).join('')}</div><div class="tnames">${TASKS.map((n,i)=>{const t=taskState(i,L);return `<span class="${t.k}">${t.k==='d'?`<span class="ck">${ICON.check}</span>`:t.k==='x'?`<span class="ck">${ICON.cross}</span>`:''}${n}${t.k==='x'?' failed':''}</span>`}).join('')}</div>`:'';
- const chips=`${s.hydra?'<div style="height:8px"></div>':'<div class="hr"></div>'}<div class="chips">${[...L].sort((x,y)=>rank(x)-rank(y)).map(a=>chip(a,c,1)).join('')}</div>`;
- const F=face(L),hot=all.filter(x=>(x.k==='5h'||x.k==='7d')&&x.hot);
- const line=`<div class="line"><span class="g">${dial(c,s.ctx,tier(c,s.ctx),{base:18,small:1,label:'context'})}<b class="tn">${s.ctx}%</b><span class="m">context</span></span>${hot.map(x=>`<span class="g">${dial(c,x.pct,x.col,{ghost:x.gh,small:1,label:x.k})}<b class="tn" style="${x.col===c.wa?`color:${c.wa}`:''}">${x.pct}%</b><span class="m">${x.k}</span></span>`).join('')}<span class="g">${mini(c,L,48)}<b class="tn">${DONE}/${TASKS.length}</b><span class="m">${PH[1]}</span></span><span class="grow"></span><span class="g agentcol" role="button" tabindex="0" aria-label="Agents: show them all" data-act="open">${mascot(F,c,S,L.length,1,1)}<span class="tn" style="${faceStyle(F,c)}">${F.txt}</span></span></div>`;
+ const chips=!L.length?'':`${s.hydra?'<div style="height:8px"></div>':'<div class="hr"></div>'}<div class="chips">${[...L].sort((x,y)=>rank(x)-rank(y)).map(a=>chip(a,c,1)).join('')}</div>`;
+ const F=L.length&&face(L),hot=all.filter(x=>(x.k==='5h'||x.k==='7d')&&x.hot);
+ const line=`<div class="line"><span class="g">${dial(c,s.ctx,tier(c,s.ctx),{base:s.ctx-s.msgs,small:1,label:'context'})}<b class="tn">${s.ctx}%</b><span class="m">context</span></span>${hot.map(x=>`<span class="g">${dial(c,x.pct,x.col,{ghost:x.gh,small:1,label:x.k})}<b class="tn" style="${x.col===c.wa?`color:${c.wa}`:''}">${x.pct}%</b><span class="m">${x.k}</span></span>`).join('')}${s.hydra?`<span class="g">${mini(c,L,48)}<b class="tn">${DONE}/${TASKS.length}</b><span class="m">${PH[1]}</span></span>`:`<span class="g press" role="button" tabindex="0" aria-label="Session cost: open the cost list" data-act="costs"><b class="tn">$267</b><span class="m">session</span></span>`}<span class="grow"></span>${L.length?`<span class="g press" role="button" tabindex="0" aria-label="Agents: show them all" data-act="open">${mascot(F,c,S,L.length,1,1)}<span class="tn" style="${faceStyle(F,c)}">${F.txt}</span></span>`:''}</div>`;
  const dot=mode!=='full'&&L.some(alertOf);
  return `<div class="pn" style="width:${W}px"><button class="tg" data-act="size" aria-label="${LBL[mode]}" title="${LBL[mode]}">${icon(mode,dot,c)}</button><div class="fold ${mode==='line'?'open':'shut'}"${mode==='line'?'':' inert'}><div>${line}</div></div><div class="fold ${mode==='line'?'shut':'open'}"${mode==='line'?' inert':''}><div>${grid}<div class="fold ${mode==='full'?'open':'shut'}"${mode==='full'?'':' inert'}><div>${plan}${chips}</div></div></div></div></div><div class="prompt" style="width:${W}px">Type / for commands</div>`}
 
@@ -320,19 +353,27 @@ const blocks=(a,col)=>`<span class="blks" role="img" aria-label="${a.prop==='fai
    Struggling = a normal 48px row whose activity line starts with "N failed tries ·" in amber, as "slower ·" does. */
 function row(a,c,w,kid){const wait=a.prop==='wait',fail=a.prop==='fail',al=wait||fail,col=stateCol(a,c),tc=al?c.er:c.RT[a.role];
  const rd=wait?`<div class="eta" style="color:${c.er}">waiting <span class="tn">${a.wait}</span></div>`:fail?`<div class="eta" style="color:${c.er}">failed</div>${kid?'':`<div class="tn" style="font-size:12px">after ${a.took}</div>`}`:`<div class="eta" style="${a.slow?`color:${c.wa}`:''}">${etaTxt(a)}<small> left</small></div>`;
- if(kid)return `<div class="row kid${fail?' tint':''}"><div>${crab(a.role,a.prop,a.walk,c,S)}</div><div class="el ttl"><b class="b">${a.t}</b> ${fail?`<span style="color:${c.er};font-weight:600">${a.why}</span>`:`<span class="m">${a.act} ${a.tgt}</span>`}</div><div class="rd" style="font-size:12px">${rd}</div><span></span></div>`;
+ if(kid)return `<div class="row kid${fail?' tint':''}"><div>${crab(a.role,a.prop,a.walk,c,S)}</div>${fail?`<div class="ttl two"><b class="b">${a.t}</b><span style="color:${c.er};font-weight:600">${a.why}</span></div>`:`<div class="el ttl"><b class="b">${a.t}</b> <span class="m">${a.act} ${a.tgt}</span></div>`}<div class="rd" style="font-size:12px">${rd}</div><span></span></div>`;
  /* ALIGN A1: "slower" is now a word in the row, as on the chip; amber alone carried it before */
  const note=hard(a)?`<span style="color:${c.wa}">${a.tries} failed tries · </span>`:a.slow?`<span style="color:${c.wa}">slower · </span>`:'';
  return `<div style="position:relative">${wait||(fail&&w.beat)?'<span class="ring"></span>':''}<div class="row${al?' need':''}" role="button" tabindex="0" aria-expanded="${!!w.open[a.id]}" data-act="row" data-id="${a.id}"><div>${crab(a.role,a.prop,a.walk,c,M)}</div><div style="min-width:0"><div class="b el">${a.t}</div><div class="sub ${al?'ask':'el'}"><span class="role" style="color:${tc}">${a.role.toUpperCase()}</span> ${al?`<span style="color:${c.er};font-weight:600">${wait?a.q:a.why}</span>`:`${note}<b>${a.act}</b> <span class="m">${a.tgt}</span>`}</div></div><div class="rd">${rd}${blocks(a,col)}</div>${ICON.chev}</div></div>`}
 function drawer(a,w){const n=a.log.length;return `<div class="drawer${w.open[a.id]?' on':''}"><div><div class="log">${a.log.map((l,i)=>`<div class="li ${i===0?'hot':'old'}${a.err&&i===0?' bad':''}"><span>${l[0]}${a.err&&i===0?`<code class="errl">${a.err}</code>`:''}</span><span class="ago">${l[1]}</span></div>`).join('')}<div class="li" style="grid-template-columns:1fr"><div class="foot"><span>steps <b class="tn">${a.n}/${a.N}</b></span>${a.tries?`<span>tries <b class="tn">${a.tries}</b></span>`:''}<span>context <b class="tn">${a.ctx}%</b></span><span>cost <b class="tn">≈$${a.cost}</b></span>${a.prop==='fail'?`<span>ran <b class="tn">${a.took}</b></span>`:''}<span>usually <b>${a.us}</b></span></div></div></div></div></div>`}
 const ended=(e,c)=>`<div class="end">${crab(e.role,e.fail?'fail':'done',0,c,S)}<span class="el">${e.t}</span>${e.fail?`<span class="no tn">${ICON.cross}failed after ${e.took}</span>`:`<span class="ok tn">${ICON.check}${e.took}</span>`}</div>`;
 /* ALIGN F11: sections follow the costume order: Needs you, Failed, Running, Ended. Struggling agents lead Running. */
-function pane(c,w){const need=A.filter(a=>a.prop==='wait'),bad=A.filter(a=>a.prop==='fail'),run=A.filter(a=>!alertOf(a)).sort((x,y)=>hard(y)-hard(x)),order=[...need,...bad,...run];
+/* BUILD Narrow pane: the one reading edge, the widest plain reading (or its step blocks) plus 6, 88 at most */
+const cv=document.createElement('canvas').getContext('2d'),FONT='-apple-system,BlinkMacSystemFont,system-ui,sans-serif',tw=(t,f)=>(cv.font=f,cv.measureText(t).width);
+const readW=(a,px)=>tw(etaTxt(a),`600 ${px}px ${FONT}`)+tw(' left',`${px}px ${FONT}`);
+const readEdge=run=>Math.ceil(Math.min(88,Math.max(0,...run.map(a=>Math.max(readW(a,13),Math.min(a.N,11)*8-2)),...run.flatMap(a=>a.kids||[]).filter(k=>!alertOf(k)).map(k=>readW(k,12)))+6));
+const costs=()=>{const n=TURNS.length,list=TURNS.map((v,i)=>[ST.turns-(n-1-i),v]).reverse();
+ return `<div class="pane costs"><button class="back" data-act="crew" aria-label="Back to the agents">${ICON.small}Agents</button><div class="t">Session cost</div><div class="tot tn"><b>$267</b><span class="m"> · ${ST.turns} turns</span></div><div class="sec">Last ${n} turns</div><div class="cl tn">${list.map(([t,v])=>`<span>turn ${t}</span><span>$${v.toFixed(2)}</span>`).join('')}</div></div>`};
+function pane(c,w){if(w.view==='costs')return costs();
+ if(!A.length)return `<div class="pane"><div class="empty">${crab('explore','none',0,c,L)}<span style="margin-top:12px">No agents yet</span><span class="m">Agents you start show up here</span></div></div>`;
+ const need=A.filter(a=>a.prop==='wait'),bad=A.filter(a=>a.prop==='fail'),run=A.filter(a=>!alertOf(a)).sort((x,y)=>hard(y)-hard(x)),order=[...need,...bad,...run];
  const crew=[...ENDED.map(()=>'<span class="d"></span>'),...order.map(a=>seg({a},c))].join('');
- const sum=`${need.length?`<span style="color:${c.er}"><b class="tn">${need.length}</b> needs you</span><span class="m"> · </span>`:''}${bad.length?`<span style="color:${c.er}"><b class="tn">${bad.length}</b> failed</span><span class="m"> · </span>`:''}<b class="tn">${run.length}</b> running<span class="m"> · </span><b class="tn">${ENDED.length}</b> done<span class="m"> · ≈$${(1+ENDED.length*.1).toFixed(2)} · ${LEFT}</span>`;
+ const sum=`${need.length?`<span style="color:${c.er}"><b class="tn">${need.length}</b> needs you</span><span class="m"> · </span>`:''}${bad.length?`<span style="color:${c.er}"><b class="tn">${bad.length}</b> failed</span><span class="m"> · </span>`:''}<b class="tn">${run.length}</b> running<span class="m"> · </span><b class="tn">${ENDED.length}</b> done<span class="m"> · ≈$${COST.toFixed(2)} · ${LEFT}</span>`;
  const kids=a=>a.kids?`<div class="kids${w.shut[a.id]?' shut':''}"${w.shut[a.id]?' inert':''}><div><div class="tree">${a.kids.map(k=>row(k,c,w,1)).join('')}</div></div></div><button class="kidtog" data-act="tog" data-id="${a.id}" aria-expanded="${!w.shut[a.id]}">${ICON.small}${a.kids.length} helpers${a.kids.some(k=>k.prop==='fail')?`<span style="color:${c.er}"> · ${a.kids.filter(k=>k.prop==='fail').length} failed</span>`:''}</button>`:'';
  const block=a=>`<div>${row(a,c,w)}${drawer(a,w)}${kids(a)}</div>`;
- return `<div class="pane"><div class="hd"><span class="t">Hydra · retro fixes</span></div>
+ return `<div class="pane" style="--rd:${readEdge(run)}px"><div class="hd"><span class="t">Hydra · retro fixes</span></div>
  <div class="crew" role="img" aria-label="${ENDED.length} done, ${need.length} needs you, ${bad.length} failed, ${run.length} running">${crew}</div><div class="sum tn">${sum}</div>
  ${need.length?`<div class="sec need">Needs you</div>${need.map(block).join('')}`:''}
  ${bad.length?`<div class="sec need">Failed <span class="tn" style="font-weight:400">${bad.length}</span></div>${bad.map(block).join('')}`:''}
@@ -377,13 +418,14 @@ function draw(w){const c=TH[w.th],el=w.el;
   <p class="me">Run the retro fixes with Hydra. Keep the fold contract on isWorking.</p>
   <p>The plan has 7 tasks. Schema and API are done. Three agents are on the fold, the fixtures and the review, and a fourth is planning the release.</p>
   <div class="tool">${fi('file',c.mu,14)}<span>Edited hooks/register.tsx</span><span class="tn"><span style="color:${c.okt}">+38</span> −6</span></div>
-  <p>${FAILED?'The e2e agent failed: it could not reach Postgres on :5432 after 3 tries. The review agent has failed 3 tries and is still going. Both logs are in the Agents pane.':'The e2e agent is waiting on you: it needs to know which database the fixture should use. Its question is in the Agents pane.'}</p>
+  <p>${EMPTY?'No agents are running yet.':FAILED?'The e2e agent failed: it could not reach Postgres on :5432 after 3 tries. The review agent has failed 3 tries and is still going. Both logs are in the Agents pane.':'The e2e agent is waiting on you: it needs to know which database the fixture should use. Its question is in the Agents pane.'}</p>
  </div>${panel(c,w.mode,880)}</div>
  <div class="side"><div class="tabs" role="tablist" aria-label="Side pane">${[['agents','Agents'],['files','Files']].map(([k,l])=>`<button role="tab" data-act="tab" data-id="${k}" aria-selected="${w.tab===k}">${l}</button>`).join('')}</div>
  <div class="sidebody" role="tabpanel">${w.tab==='agents'?pane(c,w):filetree(c)}</div></div></div>`}
 function act(w,t){const k=t.dataset.act,id=t.dataset.id;
- if(k==='size')w.mode=NEXT[w.mode];else if(k==='open')w.mode='full';else if(k==='tab')w.tab=id;else if(k==='row')w.open[id]=!w.open[id];else if(k==='tog')w.shut[id]=!w.shut[id];else return;
- draw(w);w.el.querySelector(k==='size'||k==='open'?'.tg':`[data-act="${k}"][data-id="${id}"]`)?.focus();report()}
+ if(k==='size')w.mode=NEXT[w.mode];else if(k==='open'){w.tab='agents';w.view='crew';if(id)w.open[id]=1} /* BUILD Chips open the Agents pane, Chip opens its agent */
+ else if(k==='costs'){w.tab='agents';w.view='costs'}else if(k==='crew')w.view='crew';else if(k==='tab')w.tab=id;else if(k==='row')w.open[id]=!w.open[id];else if(k==='tog')w.shut[id]=!w.shut[id];else return;
+ draw(w);w.el.querySelector(k==='size'?'.tg':k==='open'&&id?`[data-act="row"][data-id="${id}"]`:k==='costs'?'.back':k==='crew'?'[data-act="tab"][aria-selected="true"]':`[data-act="${k}"][data-id="${id}"]`)?.focus();report()}
 /* self-check: the loop budget, measured from the page itself, per window */
 function report(){for(const w of wins){const loops=w.el.getAnimations({subtree:true}).filter(a=>a.effect.getTiming().iterations===Infinity&&!a.effect.target.closest('.fold.shut')); /* folded content is not drawn in the app */
  const drawings=new Set(loops.map(a=>a.effect.target.closest('svg')||a.effect.target)),eased=loops.filter(a=>!a.effect.getKeyframes()[0].easing.startsWith('steps'));
@@ -391,7 +433,7 @@ function report(){for(const w of wins){const loops=w.el.getAnimations({subtree:t
  w.cap.querySelector('span').textContent=`${drawings.size} looping drawings, ${eased.length} eased`}}
 for(const th of themes){if(FAILED){const cap=document.createElement('div');cap.className='cap';cap.innerHTML=`<b>${th==='d'?'Dark':'Light'} · Failed: the chip over time, and the row choice</b>`;const el=document.createElement('div');el.className='spec';el.style.cssText=vars(TH[th],th);el.innerHTML=spec(TH[th]);document.getElementById('root').append(cap,el)}
 for(const v of VIEWS){const cap=document.createElement('div');cap.className='cap';cap.innerHTML=`<b>${th==='d'?'Dark':'Light'} · ${v.name}</b><span></span>`;
- const el=document.createElement('div');el.className='win';const w={th,el,cap,mode:v.mode,tab:v.tab,open:FAILED?{e2e:1}:{imp:1},shut:{ended:true}};wins.push(w);
+ const el=document.createElement('div');el.className='win';const w={th,el,cap,mode:v.mode,tab:v.tab,view:STATE==='costs'?'costs':'crew',open:FAILED?{e2e:1}:{imp:1},shut:{ended:true}};wins.push(w);
  el.addEventListener('click',e=>{const t=e.target.closest('[data-act]');if(t)act(w,t)});
  el.addEventListener('keydown',e=>{const t=e.target.closest('[role=button][data-act]');if(t&&t===e.target&&(e.key==='Enter'||e.key===' ')){e.preventDefault();act(w,t)}});
  document.getElementById('root').append(cap,el);draw(w)}}
